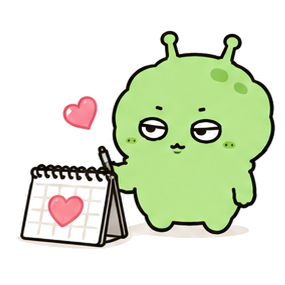
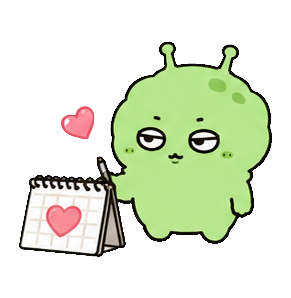
assets: 러비 캐릭터 이미지 14종을 최종본으로 교체
잘림·누끼 문제를 고친 최종 캐릭터 이미지로 전부 교체했다.
기존 movie.png는 머리 위가 잘려 있었고, hero.png는 우하단에 잔여 픽셀과
그림자가 남아 있었다. 신규 에셋은 14종 모두 알파 채널이 깨끗하다.

번호 → 포즈 매핑 (이미지를 실제로 확인해 대조)
  1 hero      2 observe   3 record    4 laptop    5 question
  6 heart     7 chart     8 movie     9 mug      10 cool
 11 calendar 12 book     13 crystal  14 wand

src/data/lovy.ts
- LOVY_ASSETS의 width/height를 실제 파일 크기로 갱신했다.
  Lovy가 이 값으로 표시 높이를 계산하기 때문에(height = size * h / w)
  갱신하지 않으면 모든 이미지가 눌리거나 늘어난다. 14종 전수 대조 확인.
- 신규 에셋은 hero(509x558)를 제외하고 전부 291x298 균일 캔버스다.
  기존은 포즈마다 타이트 크롭이라 종횡비가 215x265 ~ 320x310으로 다 달랐고,
  같은 size를 줘도 표시 높이가 46x57 / 46x42처럼 달라져 화면 간 레이아웃이
  흔들렸다. 이제 같은 size면 항상 같은 박스가 나온다.
- alt 텍스트를 실제 그림에 맞게 고쳤다. 이미지에 없는 것이 적혀 있었다:
  observe '망원경' → 돋보기 / movie '영사기' → 3D 안경과 팝콘 /
  hero '두 팔을 벌리고 인사' → 가만히 서 있는 모습

용량은 1102KB → 822KB로 280KB 줄었다.

⚠ 알려진 시각적 영향 (별도 판단 필요)
신규 캔버스는 그림 주위에 여백이 있어서, 같은 size 값에서 캐릭터가
포즈별로 4~30% 작게 보인다. 여백 비율을 실측한 결과:
  거의 동일: calendar -4% · crystal -5% · chart -4% · laptop +9%
  확연히 작아짐: record -30% · mug -29% · movie -26% · cool -26% · hero -24%
포즈마다 편차가 커서 전역 배율 보정은 맞지 않는다. size 값 조정은
화면을 보고 판단할 사안이라 이번 커밋에서는 건드리지 않았다.

Changed region(s): [[0.0561, 0.1123, 0.9825, 0.8702]]

diff --git a/src/data/lovy.ts b/src/data/lovy.ts
@@ -34,19 +34,34 @@ interface LovyAsset {
   alt: string;
 }
 
+/**
+ * 캐릭터 에셋의 원본 픽셀 크기.
+ *
+ * ⚠ 실제 파일 크기와 반드시 일치해야 한다. `Lovy`가 이 값으로 표시 높이를 계산하기 때문에
+ * (`height = size * asset.height / asset.width`) 값이 어긋나면 이미지가 눌리거나 늘어난다.
+ *
+ * v1.7 에셋 교체 — 최종 캐릭터 이미지로 전부 갱신했다.
+ * 이전 에셋은 포즈마다 타이트 크롭이라 종횡비가 다 달랐고(215×265 ~ 320×310),
+ * 같은 `size`를 줘도 포즈에 따라 표시 높이가 46×57 / 46×42처럼 달라져 화면 간
+ * 레이아웃이 흔들렸다. 새 에셋은 **`hero`를 제외하고 전부 291×298 균일 캔버스**여서
+ * 같은 `size`면 항상 같은 박스가 나온다.
+ */
+const SQUARE = { width: 291, height: 298 } as const;
+
 export const LOVY_ASSETS: Record<LovyPose, LovyAsset> = {
-  hero: { src: '/lovy/hero.png', width: 440, height: 525, alt: '러비가 두 팔을 벌리고 인사하는 모습' },
-  chart: { src: '/lovy/chart.png', width: 285, height: 265, alt: '러비가 관찰 기록 차트를 들고 있는 모습' },
-  question: { src: '/lovy/question.png', width: 255, height: 265, alt: '러비가 물음표를 띄우고 갸웃하는 모습' },
-  mug: { src: '/lovy/mug.png', width: 215, height: 265, alt: '러비가 컵을 들고 있는 모습' },
-  record: { src: '/lovy/record.png', width: 255, height: 280, alt: '러비가 기록판에 메모하는 모습' },
-  crystal: { src: '/lovy/crystal.png', width: 280, height: 220, alt: '러비가 관측 구슬을 들여다보는 모습' },
-  book: { src: '/lovy/book.png', width: 230, height: 255, alt: '러비가 기록 노트를 펼쳐 든 모습' },
-  laptop: { src: '/lovy/laptop.png', width: 320, height: 310, alt: '러비가 관측 장비를 다루는 모습' },
-  observe: { src: '/lovy/observe.png', width: 310, height: 280, alt: '러비가 망원경으로 관찰하는 모습' },
-  heart: { src: '/lovy/heart.png', width: 240, height: 265, alt: '러비가 하트를 들고 있는 모습' },
-  cool: { src: '/lovy/cool.png', width: 255, height: 265, alt: '러비가 시크하게 서 있는 모습' },
-  wand: { src: '/lovy/wand.png', width: 240, height: 230, alt: '러비가 관측봉을 든 모습' },
-  calendar: { src: '/lovy/calendar.png', width: 285, height: 285, alt: '러비가 달력을 들고 있는 모습' },
-  movie: { src: '/lovy/movie.png', width: 230, height: 275, alt: '러비가 영사기를 들고 있는 모습' },
+  // hero만 별도 대형 렌더 (Splash·Onboarding용)
+  hero: { src: '/lovy/hero.png', width: 509, height: 558, alt: '러비가 가만히 서 있는 모습' },
+  chart: { src: '/lovy/chart.png', ...SQUARE, alt: '러비가 관찰 기록 차트를 보고 있는 모습' },
+  question: { src: '/lovy/question.png', ...SQUARE, alt: '러비가 물음표를 띄우고 갸웃하는 모습' },
+  mug: { src: '/lovy/mug.png', ...SQUARE, alt: '러비가 컵을 들고 있는 모습' },
+  record: { src: '/lovy/record.png', ...SQUARE, alt: '러비가 기록판에 메모하는 모습' },
+  crystal: { src: '/lovy/crystal.png', ...SQUARE, alt: '러비가 관측 구슬을 들여다보는 모습' },
+  book: { src: '/lovy/book.png', ...SQUARE, alt: '러비가 기록 노트를 펼쳐 든 모습' },
+  laptop: { src: '/lovy/laptop.png', ...SQUARE, alt: '러비가 관측 장비를 다루는 모습' },
+  observe: { src: '/lovy/observe.png', ...SQUARE, alt: '러비가 돋보기로 관찰하는 모습' },
+  heart: { src: '/lovy/heart.png', ...SQUARE, alt: '러비가 하트를 들고 있는 모습' },
+  cool: { src: '/lovy/cool.png', ...SQUARE, alt: '러비가 선글라스를 쓰고 있는 모습' },
+  wand: { src: '/lovy/wand.png', ...SQUARE, alt: '러비가 별 지팡이를 든 모습' },
+  calendar: { src: '/lovy/calendar.png', ...SQUARE, alt: '러비가 달력 옆에 서 있는 모습' },
+  movie: { src: '/lovy/movie.png', ...SQUARE, alt: '러비가 3D 안경을 쓰고 팝콘을 든 모습' },
 };
